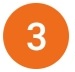
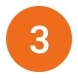
권준성

Changed region(s): [[0.0267, 0.0278, 0.88, 0.9722], [0.3467, 0.2778, 0.64, 0.7222], [0.9067, 0.4444, 0.9333, 0.5556]]

diff --git a/3호선 근접도.html b/3호선 근접도.html
@@ -138,10 +138,10 @@
             <center><h1 style="padding-top: 20px">현재 위치는 종로 3가역입니다</h1></center>
 
             <div style="text-align : center;">
-                <img id="sub_close" src="img/3호선 위.png" width="680" ; height="80"  alt="지하철 근접도" /><br />
-                <a href="1호선 근접도.html" target="_self"><img src=img/3호선1.PNG width="65" ; height="62" > </a>
-                <a href="3호선 근접도.html" target="_self"><img src=img/3호선3.PNG width="63" ; height="60" > </a>
-                <a href="5호선 근접도.html" target="_self"><img src=img/3호선5.PNG width="65" ; height="62" > </a><br />
+                <img id="sub_close" src="img/3호선 위.png" width="683" ; height="81"  alt="지하철 근접도" /><br />
+                <a href="1호선 근접도.html" target="_self"><img src=img/3호선1.PNG width="62" ; height="62" > </a>
+                <a href="3호선 근접도.html" target="_self"><img src=img/3호선3.PNG width="62" ; height="62" > </a>
+                <a href="5호선 근접도.html" target="_self"><img src=img/3호선5.PNG width="62" ; height="62" > </a><br />
                 <img id="sub_close" src="img/3호선 아래.png" width="680" ; height="161" alt="지하철 근접도" />
             </div>
 

diff --git a/1호선 근접도.html b/1호선 근접도.html
@@ -139,9 +139,9 @@
 
             <div style="text-align : center;">
                 <img id="sub_close" src="img/1호선 위.png" width="680" ; height="80"  alt="지하철 근접도" /><br />
-                <a href="1호선 근접도.html" target="_self"><img src=img/1호선1.PNG width="63" ; height="60" > </a>
-                <a href="3호선 근접도.html" target="_self"><img src=img/5호선3.PNG width="62" ; height="59" > </a>
-                <a href="5호선 근접도.html" target="_self"><img src=img/3호선5.PNG width="64" ; height="63" > </a><br />
+                <a href="1호선 근접도.html" target="_self"><img src=img/1호선1.PNG width="62" ; height="62" > </a>
+                <a href="3호선 근접도.html" target="_self"><img src=img/5호선3.PNG width="62" ; height="62" > </a>
+                <a href="5호선 근접도.html" target="_self"><img src=img/3호선5.PNG width="62" ; height="62" > </a><br />
                 <img id="sub_close" src="img/1호선 아래.png" width="680" ; height="161" alt="지하철 근접도" />
             </div>
 

diff --git a/5호선 근접도.html b/5호선 근접도.html
@@ -139,9 +139,9 @@
 
             <div style="text-align : center;">
                 <img id="sub_close" src="img/5호선 위.png" width="680" ; height="80"  alt="지하철 근접도" /><br />
-                <a href="1호선 근접도.html" target="_self"><img src=img/3호선1.PNG width="65" ; height="62" > </a>
-                <a href="3호선 근접도.html" target="_self"><img src=img/5호선3.PNG width="63" ; height="60" > </a>
-                <a href="5호선 근접도.html" target="_self"><img src=img/5호선5.PNG width="64" ; height="61" > </a><br />
+                <a href="1호선 근접도.html" target="_self"><img src=img/3호선1.PNG width="62" ; height="62" > </a>
+                <a href="3호선 근접도.html" target="_self"><img src=img/5호선3.PNG width="62" ; height="62" > </a>
+                <a href="5호선 근접도.html" target="_self"><img src=img/5호선5.PNG width="62" ; height="62" > </a><br />
                 <img id="sub_close" src="img/5호선 아래.png" width="680" ; height="161" alt="지하철 근접도" />
             </div>
 
